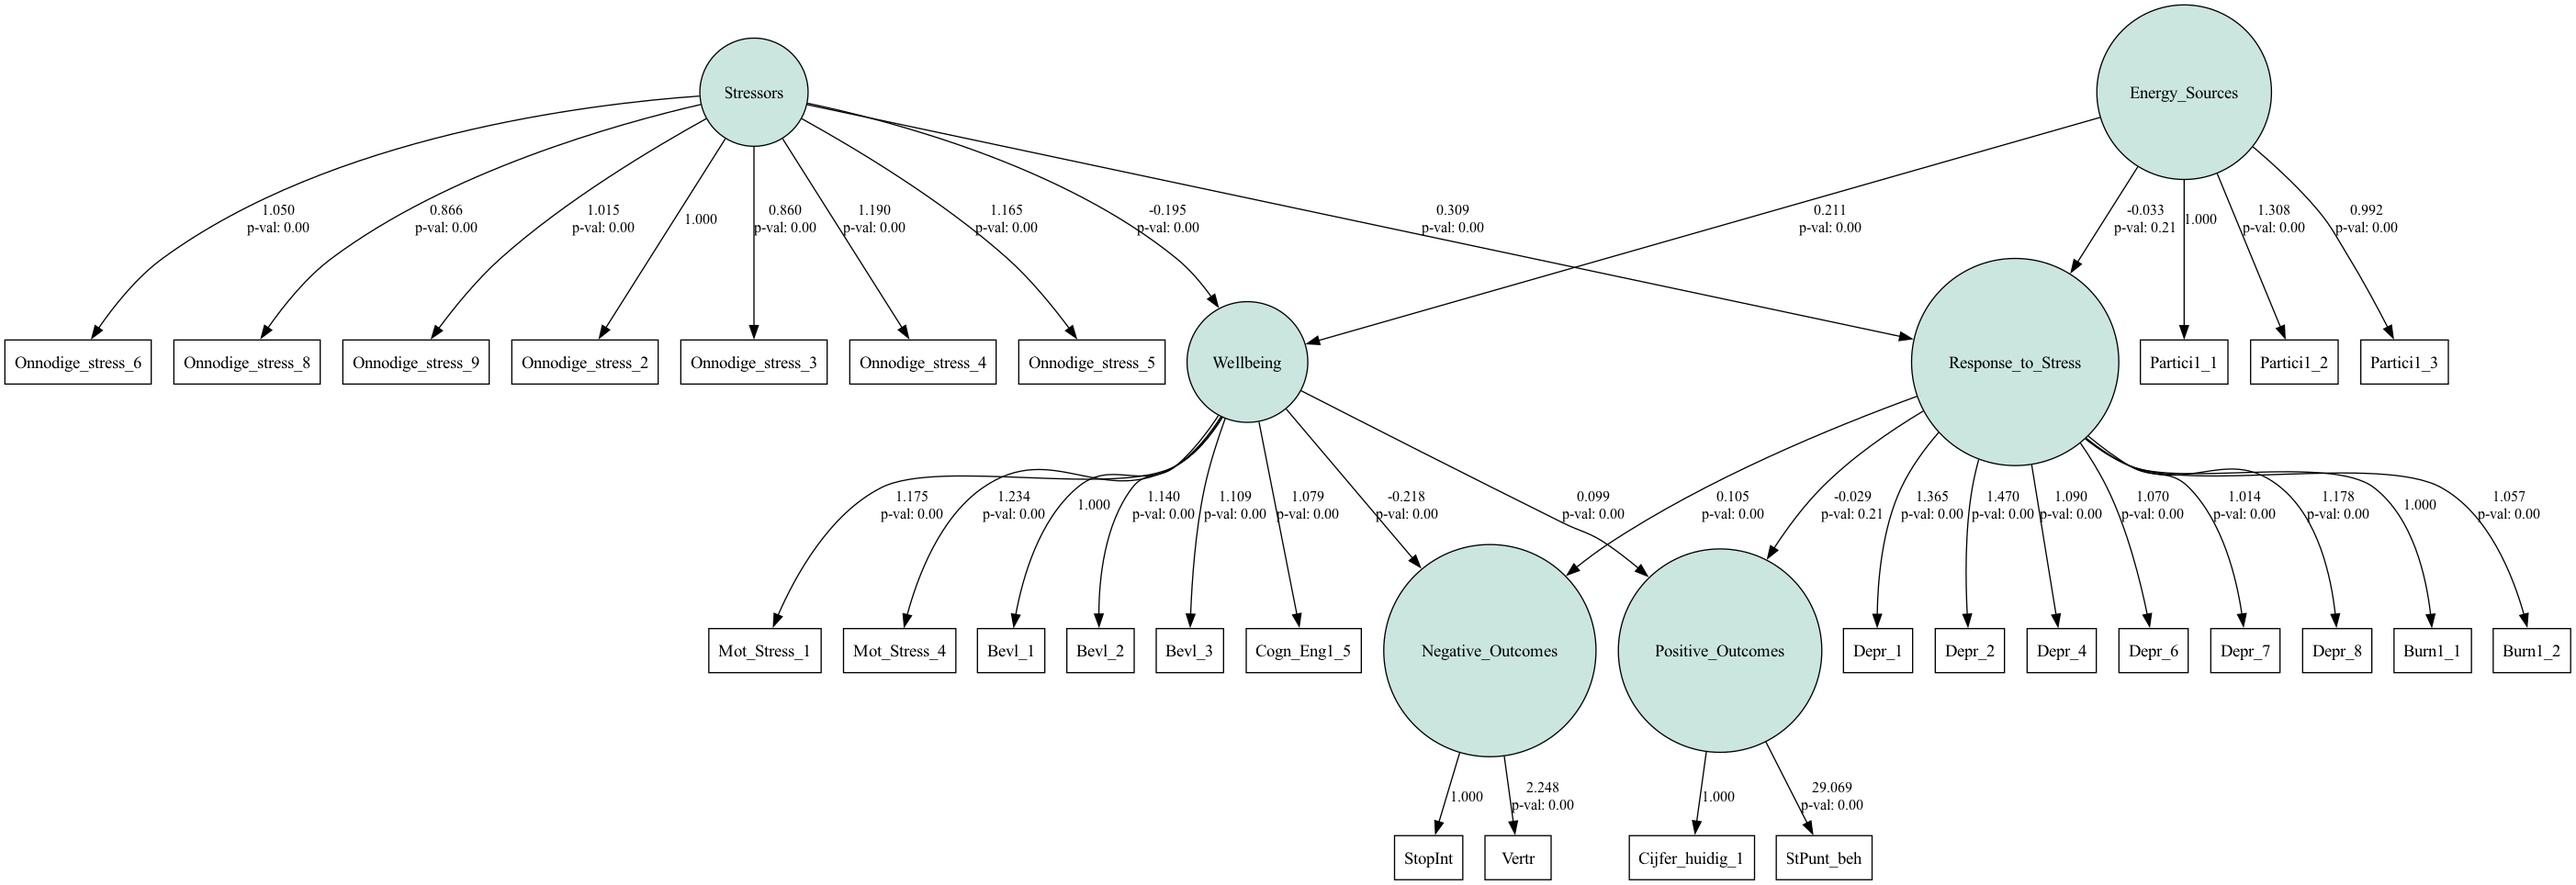
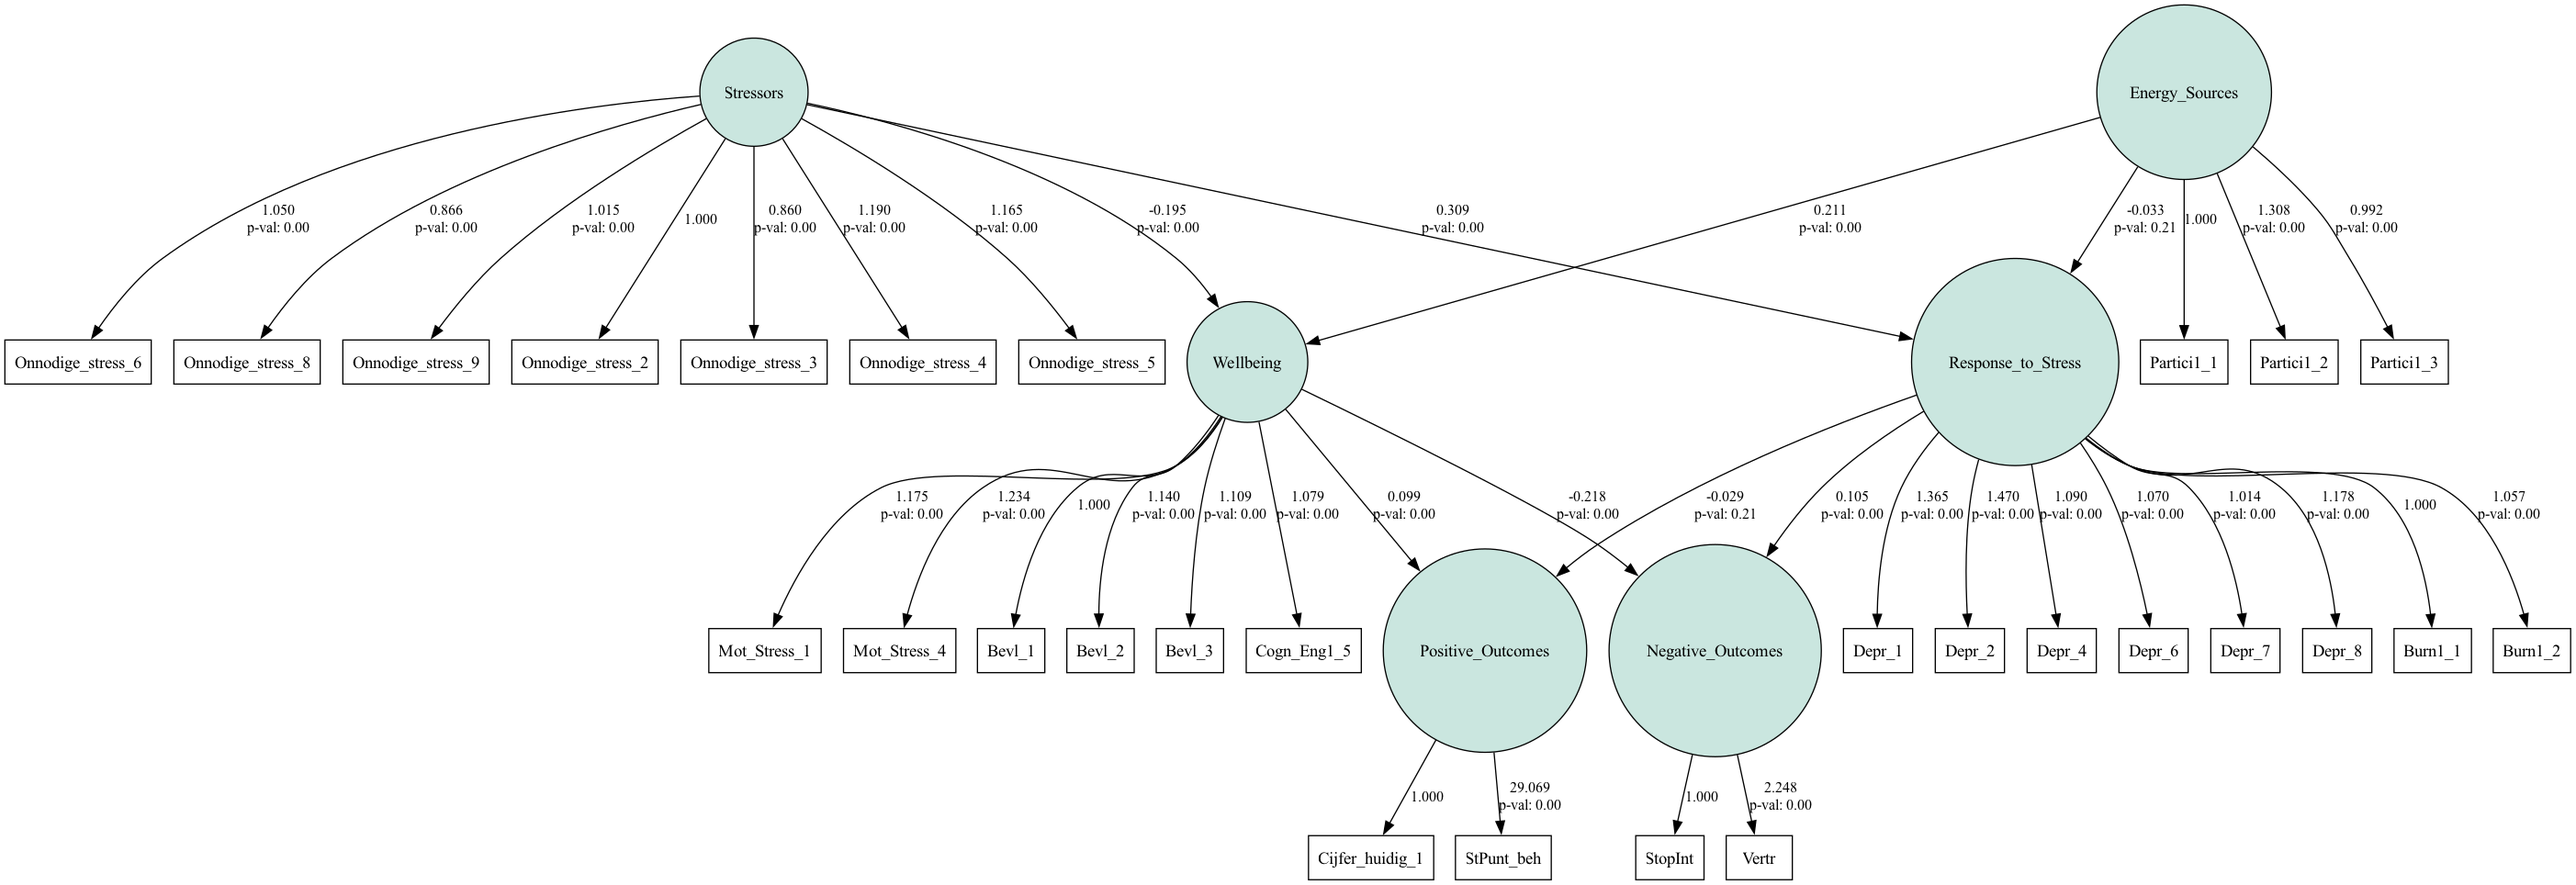
Update on the documentation

diff --git a/data-preprocessing/Mapping.py b/data-preprocessing/Mapping.py
@@ -6,15 +6,35 @@ from Kolommen import behoud_kolommen
 import sys
 from pathlib import Path
 
+"""
+Resolve project root and ensure local package imports work.
+•   ROOT  points two levels up from this script file.
+•  The resolved root is inserted into  sys.path  so that modules like  paths 
+  can be imported without relative import issues.
+"""
 ROOT = Path(__file__).resolve().parents[1]
 sys.path.insert(0, str(ROOT))
 
 from paths import RAW_DATA, PROCESSED_DATA
 
 #input en ouput mogen niet hetzelfde zijn
+"""
+Define input and output locations (must be different).
+•   input_excel : the prepared Excel source in RAW_DATA.
+•   output_csv : the processed CSV destination in PROCESSED_DATA.
+"""
 input_excel = RAW_DATA/"Welzijnsmonitor2025_prep.xlsx"
 output_csv = PROCESSED_DATA/"Welzijnsmonitor2025_processed.csv"
 
+"""
+Categorical-to-ordinal mapping for Dutch survey responses.
+This dictionary converts textual labels (frequencies, stress levels, agreement,
+ECT ranges, health assessments, support needs) into integer scores. 
+It also handles non-applicable or unknown responses (mapped to None) and a binary 'Nee' (0).
+Note:
+•  'Soms' appears here as 3, while depression columns are pre-handled separately
+•  to set 'Soms' to 2 before global mapping (see the 'Depr' section below).
+"""
 mapping = {
     "Soms": 3,
     "Nee, maar ik verwacht wel vertraging op te gaan lopen": 1,
@@ -66,24 +86,57 @@ mapping = {
 }
 
 # Lees CSV bestand
+"""
+Load the prepared Excel file into a DataFrame.
+Uses the openpyxl engine to ensure compatibility with .xlsx files.
+"""
 df = pd.read_excel(input_excel, engine="openpyxl")
 
 # Strip whitespace
+"""
+Strip leading/trailing whitespace from all string cells.
+This helps prevent mismatches during mapping due to stray spaces.
+Non-string cells are left unchanged.
+"""
 df = df.map(lambda x: x.strip() if isinstance(x, str) else x)
 
 #Verwijder kolommen die niet gebruikt worden
+"""
+Retain only relevant columns for analysis.
+Uses Kolommen.behoud_kolommen to keep only the necessary columns, based on predefined rules for removing irrelevant ones.
+"""
 df = behoud_kolommen(df)
 
 
 #Eerst de depressie kolommen transformeren die het woord soms bevat
+"""
+Pre-transform depression-related columns ('Depr*') for the label 'Soms'.
+To align scale interpretation, 'Soms' in these columns is first mapped to 2 before applying the global mapping. 
+This ensures consistent scoring for
+depression items.
+"""
 depr_cols = [col for col in df.columns if col.startswith("Depr")]
 
 df[depr_cols] = df[depr_cols].replace({"Soms": 2})
 
 # Mapping toepassen
+"""
+Apply the global categorical-to-ordinal mapping.
+Replaces textual responses across the dataset with the numeric values defined in  mapping . 
+Special cases include None for 'Niet van toepassing' and 'Ik weet het nog niet', and 0 for 'Nee'.
+"""
 df = df.replace(mapping)
 
 #Ompolen van depr_4 en depr_6 -> negatieve vraag
+"""
+Reverse-score negatively phrased depression items.
+For 'Depr_4' and 'Depr_6', apply the 1↔4 and 2↔3 mapping:
+    1 -> 4
+    2 -> 3
+    3 -> 2
+    4 -> 1
+Only applied if the columns exist in the DataFrame.
+"""
 reverse_mapping = {
     1: 4,
     2: 3,
@@ -95,8 +148,21 @@ for col in ["Depr_4", "Depr_6"]:
         df[col] = df[col].map(reverse_mapping)
 
 # Normalisatie uitvoeren in het tweede script
+"""
+(Optional) Normalize columns.
+
+If enabled,  Normalisering.normaliseer_kolommen(df)  performs additional
+normalization suitable for downstream analysis. Disabled here by default.
+"""
 df = normaliseer_kolommen(df)
 
+"""
+Export the processed DataFrame to CSV with European formatting.
+•  Semicolon (';') as the field separator.
+•  Comma (',') as the decimal separator.
+•  UTF-8 with BOM for broad Excel compatibility.
+•   quoting=1  (csv.QUOTE_ALL) to quote all fields.
+"""
 df.to_csv(
     output_csv,
     sep=';',

diff --git a/data-preprocessing/Normalisering.py b/data-preprocessing/Normalisering.py
@@ -1,6 +1,7 @@
 import pandas as pd
 
 def _to_float(x):
+    
     if pd.isna(x):
         return None
     x = str(x).strip().replace(",", ".")
@@ -39,9 +40,12 @@ def norm_0_10(value):
         return None
     return round(1 + ((v * 4.0) / 10.0), 2)
 
-
-
-
+# -----------------------------------------------------------------------------
+# Mapping of column names to their corresponding normalization functions.
+#
+# Each column is associated with a function that converts its native scale
+# (e.g., 1–4, 0–10, 0–50, 1–3, 0–5) to a unified 1–5 scale for comparability.
+# -----------------------------------------------------------------------------
 kolom_formules = {
 
    # Kolommen die de reeks 1-4 gebruiken
@@ -97,6 +101,27 @@ def normaliseer_kolommen(df):
     return df
 
 def normalize_decimal_columns(df):
+    """
+    Convert object-typed columns with comma decimals to numeric dtype.
+
+    Steps:
+    1) Work on a copy of the DataFrame to avoid mutating the caller's reference.
+    2) For each object column:
+       - Replace comma (',') decimals with dots ('.') without using regex.
+       - Convert to numeric using pd.to_numeric(..., errors="coerce"),
+         coercing invalid entries to NaN.
+
+    Parameters
+    ----------
+    df : pandas.DataFrame
+        Input DataFrame potentially containing object columns with comma decimals.
+
+    Returns
+    -------
+    pandas.DataFrame
+        A new DataFrame where applicable columns are converted to numeric dtype.
+    """
+
     df = df.copy()
 
     for col in df.columns:

diff --git a/data-preprocessing/Kolommen.py b/data-preprocessing/Kolommen.py
@@ -153,9 +153,24 @@ Kolommen_Blijven = [
 
 def behoud_kolommen(df: pd.DataFrame) -> pd.DataFrame:
     """
-    Behoudt alleen de kolommen in Kolommen_Blijven.
-    Alle andere kolommen worden verwijderd.
+    Keep only the columns listed in Kolommen_Blijven and remove all others.
+
+    Steps:
+    - Identify columns from Kolommen_Blijventhat are missing in the dataset and print them.
+    - Identify columns that will be removed because they are not in the required list.
+    - Return a DataFrame containing only the required columns.
+
+    Parameters
+    ----------
+    df : pandas.DataFrame
+        The input DataFrame containing all columns.
+
+    Returns
+    -------
+    pandas.DataFrame
+        A DataFrame with only the columns specified in Kolommen_Blijven.
     """
+
 
     # Kolommen die ontbreken
     ontbrekend = [k for k in Kolommen_Blijven if k not in df.columns]
